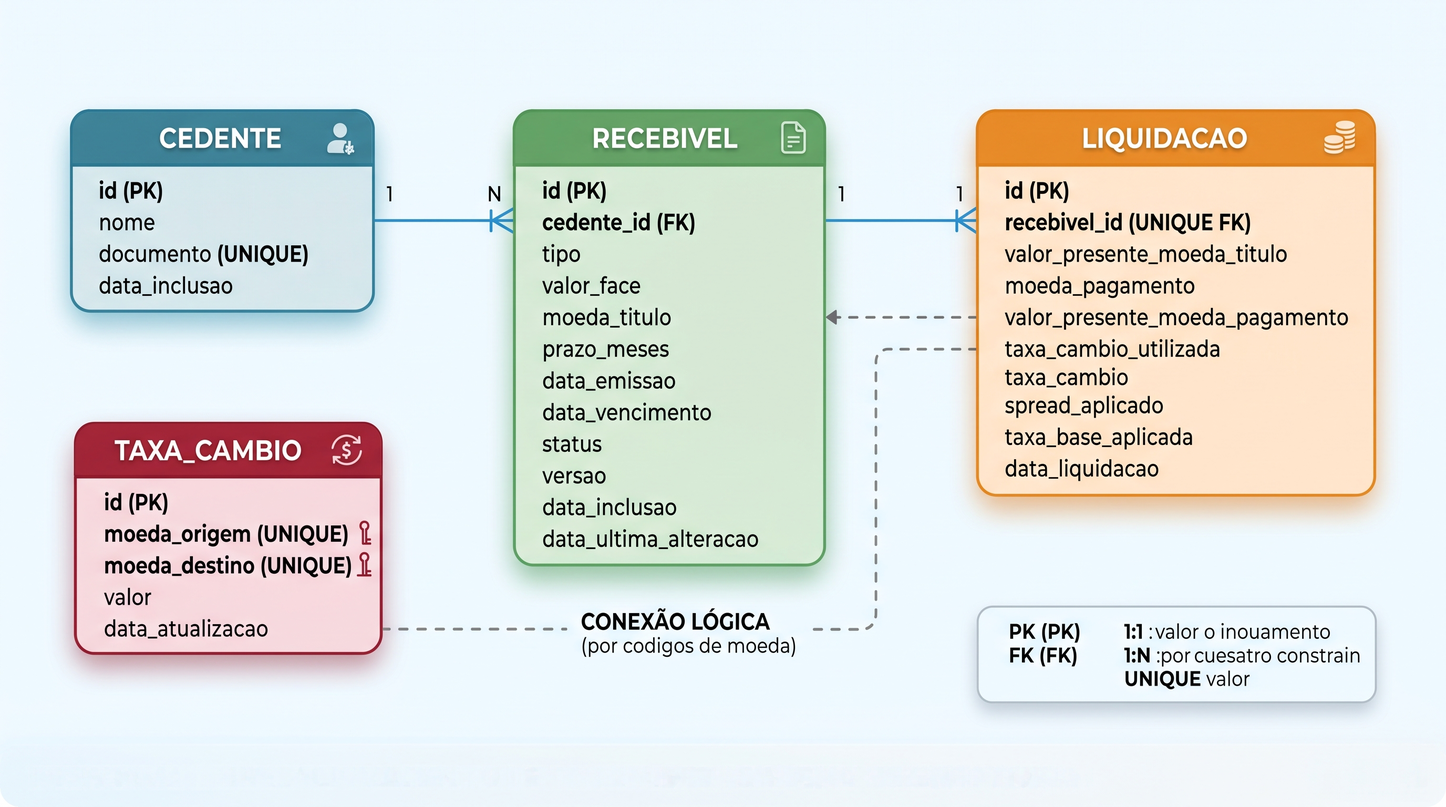
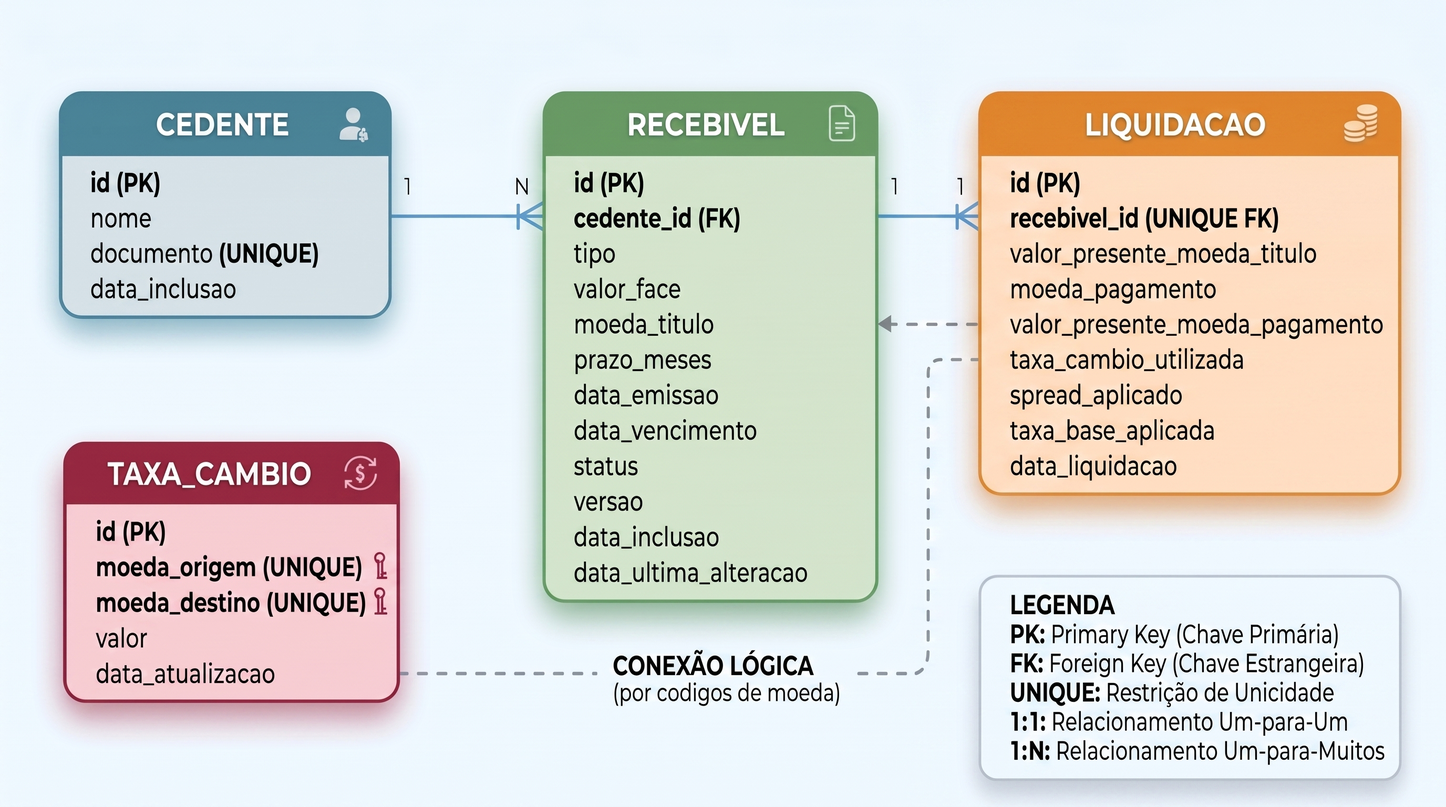
Diagrama_ER ajustado para atender o que esta sendo criado no script Script_DLL.sql. Melhoria de escrita do arquivo ADR-mysql-vs-postgresql.md.

Changed region(s): [[0.0312, 0.0938, 1.0, 0.875], [0.0312, 0.5, 0.3125, 0.9062], [0.6562, 0.6875, 0.9688, 1.0]]

diff --git a/docs/ADR-mysql-vs-postgresql.md b/docs/ADR-mysql-vs-postgresql.md
@@ -3,12 +3,10 @@
 - **Status:** Aceito
 - **Data:** 2026-08-22
 - **Decisores:** Equipe de engenharia
-- **Relacionado:** [ADR-001](ADR-001-sql-vs-nosql.md) (decisão por banco relacional)
 
 ## Contexto
 
-Definido o modelo relacional (ADR-001), restava escolher o SGBD. Os dois
-candidatos maduros e open source eram **MySQL 8** e **PostgreSQL 16**. As
+Os dois candidatos maduros para trabalhar com modelo relacional e open source são o **MySQL 8** e **PostgreSQL 16**. As
 necessidades do Credit Engine são: transações ACID, `DECIMAL` para valores
 monetários, integridade referencial, boa integração com Spring Data
 JPA/Hibernate e operação simples via Docker.
@@ -17,8 +15,8 @@ JPA/Hibernate e operação simples via Docker.
 
 | Critério | MySQL 8 | PostgreSQL 16 |
 |---|---|---|
-| ACID / transações | ✅ (InnoDB) | ✅ |
-| Tipos monetários (`DECIMAL`) | ✅ | ✅ (`NUMERIC`) |
+| ACID / transações | ✅  | ✅ |
+| Tipos monetários (`DECIMAL`) | ✅ | ✅ |
 | Suporte Hibernate/JPA | Excelente | Excelente |
 | Leituras simples por PK (workload dominante do sistema) | Muito rápido; índice clusterizado por PK favorece lookups | Rápido |
 | Recursos avançados (JSONB, CTEs ricas, tipos custom, particionamento declarativo) | Parcial | ✅ Superior |
@@ -38,7 +36,7 @@ Motivos determinantes:
    (recebível por id, taxa por par de moedas) e escritas transacionais
    pontuais — perfil em que o índice clusterizado do InnoDB brilha; não
    usamos os diferenciais do Postgres (JSONB, tipos custom, full-text);
-2. **Caminho de escala já traçado**: o plano de alta escala (README) prevê
+2. **Caminho de escala já traçado**: o plano de alta escala (README) poe prevê
    sharding via **Vitess**, ecossistema consolidado sobre MySQL (YouTube,
    Slack, GitHub);
 3. **Simplicidade operacional**: replicação por GTID é simples de operar e
